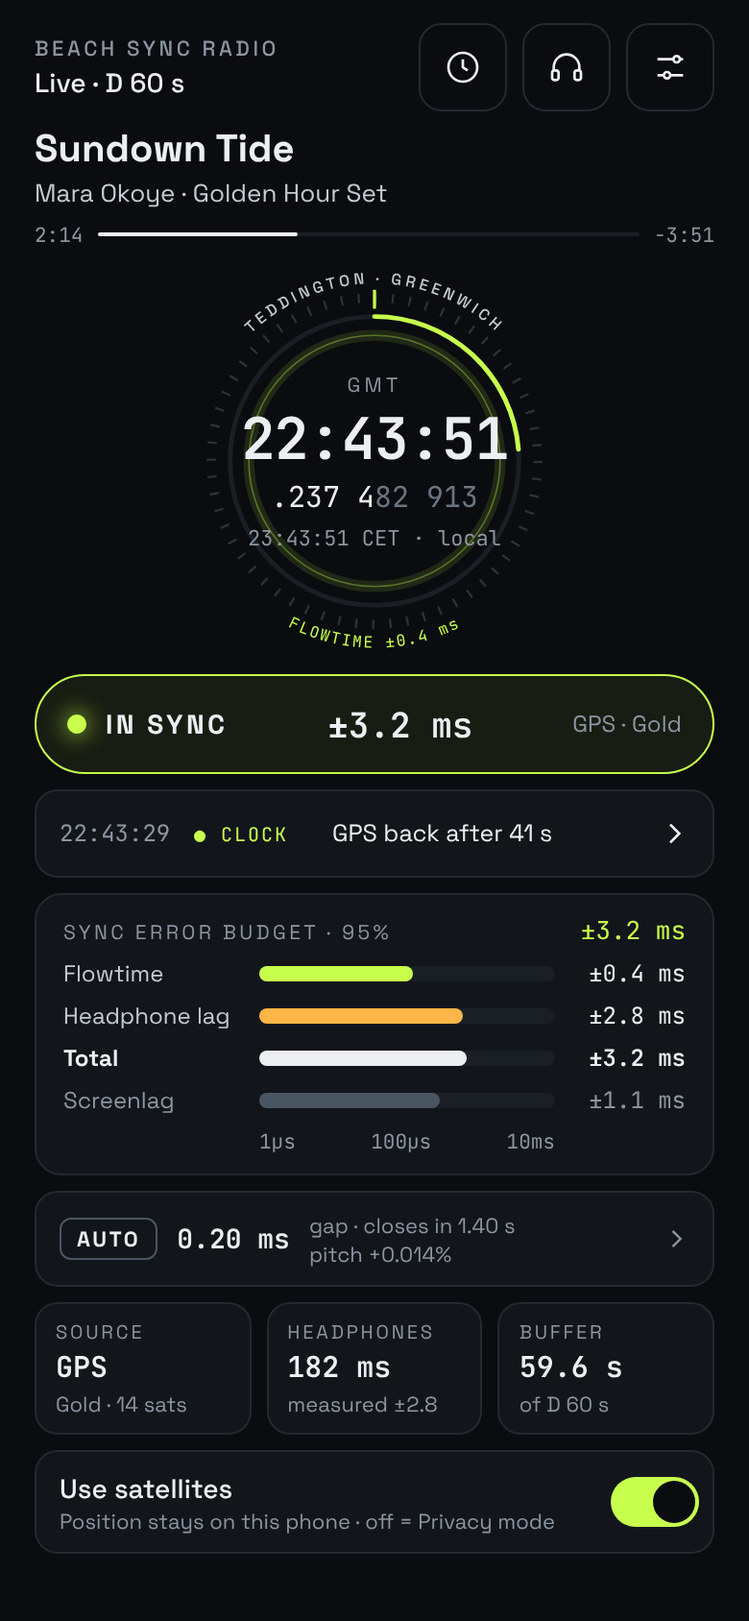
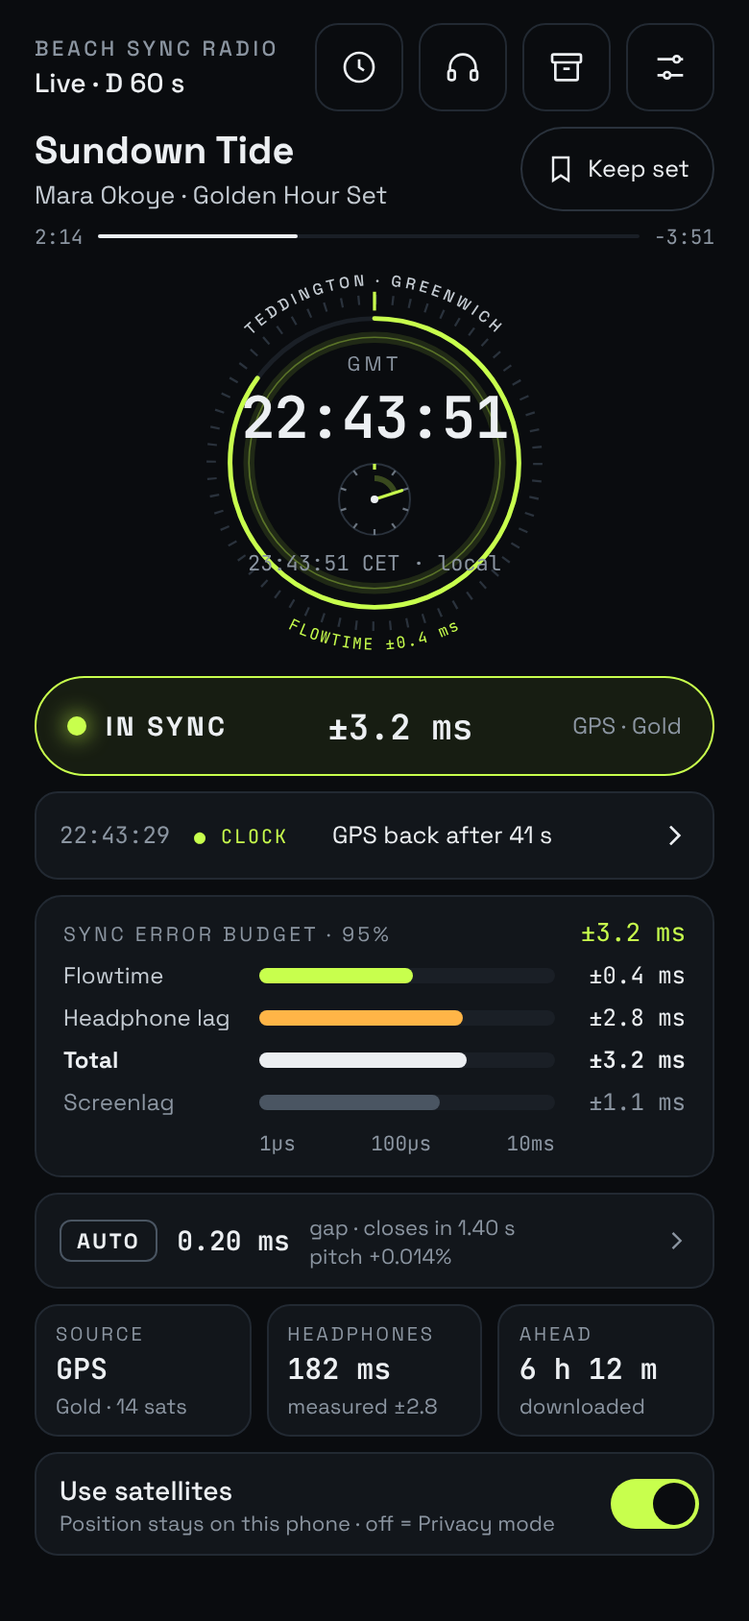
Add design hand-off 05 from Claude Desktop
The archive screen, Settings archive and delivery sections, and now
playing's sub-second dial, Keep button and downloaded-ahead tile.

diff --git a/design/screens/archive.html b/design/screens/archive.html
@@ -1,0 +1,116 @@
+<!doctype html>
+<html lang="en">
+<head>
+<meta charset="utf-8">
+<meta name="viewport" content="width=390">
+<title>Archive · Beach Sync</title>
+<!-- Exported from the Beach Sync UI Mock-ups canvas. Static: tokens are in ../tokens.json, behaviour in ../ui-spec.md -->
+<link rel="stylesheet" href="https://fonts.googleapis.com/css2?family=JetBrains+Mono:wght@400;600&amp;family=Space+Grotesk:wght@400;500;700&amp;display=swap">
+<style>
+body{margin:0;background:#0A0C0F}
+a{color:#C8FF4D}a:hover{color:#E2FF9E}
+</style>
+</head>
+<body>
+<div style="width: 390px; height: 844px; box-sizing: border-box; background: #0A0C0F; color: #ECEFF2; font-family: 'Space Grotesk', system-ui, sans-serif; padding: 14px 18px 0; display: flex; flex-direction: column; gap: 10px; overflow: hidden">
+
+  <div style="display: flex; justify-content: space-between; align-items: center">
+    <a href="now-playing.html" style="display: flex; align-items: center; gap: 6px; min-height: 44px; text-decoration: none; color: #ECEFF2; font-size: 18px; font-weight: 700">
+      <svg width="18" height="18" viewBox="0 0 24 24" fill="none" stroke="currentColor" stroke-width="2" aria-hidden="true"><path d="M15 5l-7 7 7 7"></path></svg>
+      Archive
+    </a>
+    <a href="settings.html" style="min-height: 44px; display: flex; align-items: center; font-size: 13px; color: #C4CBD2; text-decoration: none">Keeping everything ›</a>
+  </div>
+
+  <div style="background: #12161B; border: 1px solid #222932; border-radius: 14px; padding: 12px 14px; display: flex; flex-direction: column; gap: 8px">
+    <div style="display: flex; justify-content: space-between; align-items: baseline">
+      <span style="font-size: 10.5px; letter-spacing: 0.16em; color: #8B95A1">STORAGE</span>
+      <span style="font-size: 11px; color: #8B95A1">41 GB free on this phone</span>
+    </div>
+    <div style="display: flex; height: 8px; border-radius: 4px; overflow: hidden; background: #1A1F26"><span style="width: 46%; background: #C8FF4D"></span><span style="width: 18%; background: #ECEFF2"></span></div>
+    <div style="display: flex; justify-content: space-between; font-size: 11.5px; color: #C4CBD2">
+      <span><span style="color: #C8FF4D">■</span> Rolling <span style="font-family: 'JetBrains Mono', ui-monospace, monospace">3.1 of 5 GB</span></span>
+      <span><span style="color: #ECEFF2">■</span> Kept <span style="font-family: 'JetBrains Mono', ui-monospace, monospace">1.2 GB</span> extra</span>
+    </div>
+  </div>
+
+  <div role="group" aria-label="Show" style="display: flex; gap: 6px">
+    <button aria-pressed="true" style="appearance: none; min-height: 44px; padding: 0 14px; border-radius: 999px; border: 1.5px solid #ECEFF2; background: #ECEFF2; color: #0A0C0F; font-family: inherit; font-size: 13px; font-weight: 700">All</button>
+    <button aria-pressed="false" style="appearance: none; min-height: 44px; padding: 0 14px; border-radius: 999px; border: 1px solid #2A323C; background: transparent; color: #ECEFF2; font-family: inherit; font-size: 13px">Kept</button>
+    <button aria-pressed="false" style="appearance: none; min-height: 44px; padding: 0 14px; border-radius: 999px; border: 1px solid #2A323C; background: transparent; color: #ECEFF2; font-family: inherit; font-size: 13px">Finishing</button>
+  </div>
+
+  <span style="font-size: 10.5px; letter-spacing: 0.16em; color: #8B95A1; margin-top: 2px">TODAY</span>
+  <div style="display: flex; flex-direction: column">
+    <div style="display: grid; grid-template-columns: 44px minmax(0, 1fr) 44px; gap: 8px; align-items: center; padding: 6px 0; border-bottom: 1px solid #1A1F26;">
+      <button aria-label="Replay Salt Lines" style="appearance: none; width: 40px; height: 40px; margin: 2px; border-radius: 50%; border: 1px solid #2A323C; background: transparent; color: #ECEFF2; display: flex; align-items: center; justify-content: center; cursor: pointer"><svg width="14" height="14" viewBox="0 0 24 24" aria-hidden="true"><path d="M7 4l13 8-13 8z" fill="currentColor"></path></svg></button>
+      <div style="display: flex; flex-direction: column; gap: 1px; min-width: 0">
+        <span style="font-size: 14px; font-weight: 500; white-space: nowrap; overflow: hidden; text-overflow: ellipsis">Salt Lines</span>
+        <span style="font-size: 11.5px; color: #C4CBD2; white-space: nowrap; overflow: hidden; text-overflow: ellipsis">Ines Varga · single</span>
+        <span style="font-family: 'JetBrains Mono', ui-monospace, monospace; font-size: 10.5px; color: #8B95A1">3:48 · 4.6 MB · 20:36</span>
+        <span style="font-size: 11px; color: #5CE1FF">Finishing on Wi-Fi · 62%</span>
+      </div>
+      <button aria-pressed="false" aria-label="Keep Salt Lines" style="appearance: none; width: 44px; height: 44px; border: none; background: transparent; display: flex; align-items: center; justify-content: center; cursor: pointer"><svg width="18" height="18" viewBox="0 0 24 24" fill="none" stroke="#8B95A1" stroke-width="1.8" aria-hidden="true"><path d="M6 3h12v18l-6-4-6 4z"></path></svg></button>
+    </div>
+    <div style="display: grid; grid-template-columns: 44px minmax(0, 1fr) 44px; gap: 8px; align-items: center; padding: 6px 0; border-bottom: 1px solid #1A1F26;">
+      <button aria-label="Replay Golden Hour Set" style="appearance: none; width: 40px; height: 40px; margin: 2px; border-radius: 50%; border: 1px solid #2A323C; background: transparent; color: #ECEFF2; display: flex; align-items: center; justify-content: center; cursor: pointer"><svg width="14" height="14" viewBox="0 0 24 24" aria-hidden="true"><path d="M7 4l13 8-13 8z" fill="currentColor"></path></svg></button>
+      <div style="display: flex; flex-direction: column; gap: 1px; min-width: 0">
+        <span style="font-size: 14px; font-weight: 500; white-space: nowrap; overflow: hidden; text-overflow: ellipsis">Golden Hour Set</span>
+        <span style="font-size: 11.5px; color: #C4CBD2; white-space: nowrap; overflow: hidden; text-overflow: ellipsis">Mara Okoye · set, 14 tracks</span>
+        <span style="font-family: 'JetBrains Mono', ui-monospace, monospace; font-size: 10.5px; color: #8B95A1">1:58:20 · 142 MB · 20:40</span>
+        <span style="font-size: 11px; color: #C8FF4D">Playing now · track 9 of 14</span>
+      </div>
+      <button aria-pressed="false" aria-label="Keep Golden Hour Set" style="appearance: none; width: 44px; height: 44px; border: none; background: transparent; display: flex; align-items: center; justify-content: center; cursor: pointer"><svg width="18" height="18" viewBox="0 0 24 24" fill="none" stroke="#8B95A1" stroke-width="1.8" aria-hidden="true"><path d="M6 3h12v18l-6-4-6 4z"></path></svg></button>
+    </div>
+    <div style="display: grid; grid-template-columns: 44px minmax(0, 1fr) 44px; gap: 8px; align-items: center; padding: 6px 0; ">
+      <button aria-label="Replay Low Tide Radio Hour" style="appearance: none; width: 40px; height: 40px; margin: 2px; border-radius: 50%; border: 1px solid #2A323C; background: transparent; color: #ECEFF2; display: flex; align-items: center; justify-content: center; cursor: pointer"><svg width="14" height="14" viewBox="0 0 24 24" aria-hidden="true"><path d="M7 4l13 8-13 8z" fill="currentColor"></path></svg></button>
+      <div style="display: flex; flex-direction: column; gap: 1px; min-width: 0">
+        <span style="font-size: 14px; font-weight: 500; white-space: nowrap; overflow: hidden; text-overflow: ellipsis">Low Tide Radio Hour</span>
+        <span style="font-size: 11.5px; color: #C4CBD2; white-space: nowrap; overflow: hidden; text-overflow: ellipsis">Beach Sync Radio · show</span>
+        <span style="font-family: 'JetBrains Mono', ui-monospace, monospace; font-size: 10.5px; color: #8B95A1">59:40 · 72 MB · 18:00</span>
+        
+      </div>
+      <button aria-pressed="false" aria-label="Keep Low Tide Radio Hour" style="appearance: none; width: 44px; height: 44px; border: none; background: transparent; display: flex; align-items: center; justify-content: center; cursor: pointer"><svg width="18" height="18" viewBox="0 0 24 24" fill="none" stroke="#8B95A1" stroke-width="1.8" aria-hidden="true"><path d="M6 3h12v18l-6-4-6 4z"></path></svg></button>
+    </div>
+  </div>
+
+  <span style="font-size: 10.5px; letter-spacing: 0.16em; color: #8B95A1; margin-top: 2px">29 OCT</span>
+  <div style="display: flex; flex-direction: column">
+    <div style="display: grid; grid-template-columns: 44px minmax(0, 1fr) 44px; gap: 8px; align-items: center; padding: 6px 0; border-bottom: 1px solid #1A1F26;">
+      <button aria-label="Replay Night Swim" style="appearance: none; width: 40px; height: 40px; margin: 2px; border-radius: 50%; border: 1px solid #2A323C; background: transparent; color: #ECEFF2; display: flex; align-items: center; justify-content: center; cursor: pointer"><svg width="14" height="14" viewBox="0 0 24 24" aria-hidden="true"><path d="M7 4l13 8-13 8z" fill="currentColor"></path></svg></button>
+      <div style="display: flex; flex-direction: column; gap: 1px; min-width: 0">
+        <span style="font-size: 14px; font-weight: 500; white-space: nowrap; overflow: hidden; text-overflow: ellipsis">Night Swim</span>
+        <span style="font-size: 11.5px; color: #C4CBD2; white-space: nowrap; overflow: hidden; text-overflow: ellipsis">Joel Arrow · Breakers Set</span>
+        <span style="font-family: 'JetBrains Mono', ui-monospace, monospace; font-size: 10.5px; color: #8B95A1">4:12 · 5.0 MB · 23:58</span>
+        
+      </div>
+      <button aria-pressed="true" aria-label="Kept Night Swim" style="appearance: none; width: 44px; height: 44px; border: none; background: transparent; display: flex; align-items: center; justify-content: center; cursor: pointer"><svg width="18" height="18" viewBox="0 0 24 24" fill="#C8FF4D" stroke="#C8FF4D" stroke-width="1.8" aria-hidden="true"><path d="M6 3h12v18l-6-4-6 4z"></path></svg></button>
+    </div>
+    <div style="display: grid; grid-template-columns: 44px minmax(0, 1fr) 44px; gap: 8px; align-items: center; padding: 6px 0; ">
+      <button aria-label="Replay Breakers Set" style="appearance: none; width: 40px; height: 40px; margin: 2px; border-radius: 50%; border: 1px solid #2A323C; background: transparent; color: #ECEFF2; display: flex; align-items: center; justify-content: center; cursor: pointer"><svg width="14" height="14" viewBox="0 0 24 24" aria-hidden="true"><path d="M7 4l13 8-13 8z" fill="currentColor"></path></svg></button>
+      <div style="display: flex; flex-direction: column; gap: 1px; min-width: 0">
+        <span style="font-size: 14px; font-weight: 500; white-space: nowrap; overflow: hidden; text-overflow: ellipsis">Breakers Set</span>
+        <span style="font-size: 11.5px; color: #C4CBD2; white-space: nowrap; overflow: hidden; text-overflow: ellipsis">Joel Arrow · set, 11 tracks</span>
+        <span style="font-family: 'JetBrains Mono', ui-monospace, monospace; font-size: 10.5px; color: #8B95A1">1:31:05 · 109 MB · 22:30</span>
+        <span style="font-size: 11px; color: #8B95A1">Oldest unkept · goes next</span>
+      </div>
+      <button aria-pressed="false" aria-label="Keep Breakers Set" style="appearance: none; width: 44px; height: 44px; border: none; background: transparent; display: flex; align-items: center; justify-content: center; cursor: pointer"><svg width="18" height="18" viewBox="0 0 24 24" fill="none" stroke="#8B95A1" stroke-width="1.8" aria-hidden="true"><path d="M6 3h12v18l-6-4-6 4z"></path></svg></button>
+    </div>
+  </div>
+
+  <div style="margin: auto -18px 0; background: #12161B; border-top: 1px solid #222932; padding: 10px 18px 14px; display: flex; flex-direction: column; gap: 8px">
+    <div style="display: flex; align-items: center; gap: 10px">
+      <span style="font-size: 10px; font-weight: 700; letter-spacing: 0.14em; color: #C4CBD2; border: 1px solid #4A5562; border-radius: 6px; padding: 2px 6px">REPLAY · NOT SYNCED</span>
+      <span style="font-size: 13px; font-weight: 500; white-space: nowrap; overflow: hidden; text-overflow: ellipsis">Night Swim</span>
+      <button aria-label="Pause replay" style="appearance: none; margin-left: auto; width: 44px; height: 44px; border-radius: 50%; border: none; background: #ECEFF2; color: #0A0C0F; display: flex; align-items: center; justify-content: center; gap: 3px; flex: none"><span style="width: 4px; height: 14px; background: #0A0C0F; border-radius: 1px"></span><span style="width: 4px; height: 14px; background: #0A0C0F; border-radius: 1px"></span></button>
+    </div>
+    <div style="display: grid; grid-template-columns: auto minmax(0, 1fr) auto; gap: 8px; align-items: center; font-family: 'JetBrains Mono', ui-monospace, monospace; font-size: 10.5px; color: #8B95A1">
+      <span>1:37</span>
+      <input type="range" min="0" max="252" value="97" aria-label="Replay position" style="width: 100%; height: 24px; margin: 0; accent-color: #ECEFF2">
+      <span>−2:35</span>
+    </div>
+  </div>
+
+</div>
+</body>
+</html>

diff --git a/design/screens/now-playing.html b/design/screens/now-playing.html
@@ -26,6 +26,9 @@ a{color:#C8FF4D}a:hover{color:#E2FF9E}
       <a href="headphone-lag.html" aria-label="Headphone lag" style="width: 44px; height: 44px; border-radius: 12px; border: 1px solid #222932; display: flex; align-items: center; justify-content: center; color: #ECEFF2">
         <svg width="20" height="20" viewBox="0 0 24 24" fill="none" stroke="currentColor" stroke-width="1.6" aria-hidden="true"><path d="M4 14v-2a8 8 0 0 1 16 0v2"></path><rect x="3" y="14" width="4" height="6" rx="1.5"></rect><rect x="17" y="14" width="4" height="6" rx="1.5"></rect></svg>
       </a>
+      <a href="archive.html" aria-label="Archive" style="width: 44px; height: 44px; border-radius: 12px; border: 1px solid #222932; display: flex; align-items: center; justify-content: center; color: #ECEFF2">
+        <svg width="20" height="20" viewBox="0 0 24 24" fill="none" stroke="currentColor" stroke-width="1.6" aria-hidden="true"><rect x="3" y="4" width="18" height="5" rx="1"></rect><path d="M5 9v10a1 1 0 0 0 1 1h12a1 1 0 0 0 1-1V9M10 13h4"></path></svg>
+      </a>
       <a href="settings.html" aria-label="Settings" style="width: 44px; height: 44px; border-radius: 12px; border: 1px solid #222932; display: flex; align-items: center; justify-content: center; color: #ECEFF2">
         <svg width="20" height="20" viewBox="0 0 24 24" fill="none" stroke="currentColor" stroke-width="1.6" aria-hidden="true"><path d="M4 7h10M18 7h2M4 17h4M12 17h8"></path><circle cx="16" cy="7" r="2"></circle><circle cx="10" cy="17" r="2"></circle></svg>
       </a>
@@ -33,8 +36,15 @@ a{color:#C8FF4D}a:hover{color:#E2FF9E}
   </div>
 
   <div style="display: flex; flex-direction: column; gap: 3px">
-    <span style="font-size: 20px; font-weight: 700; line-height: 1.15; white-space: nowrap; overflow: hidden; text-overflow: ellipsis">Sundown Tide</span>
-    <span style="font-size: 13px; color: #C4CBD2; white-space: nowrap; overflow: hidden; text-overflow: ellipsis">Mara Okoye · Golden Hour Set</span>
+    <div style="display: grid; grid-template-columns: minmax(0, 1fr) auto; gap: 8px; align-items: center">
+      <div style="display: flex; flex-direction: column; gap: 3px; min-width: 0">
+        <span style="font-size: 20px; font-weight: 700; line-height: 1.15; white-space: nowrap; overflow: hidden; text-overflow: ellipsis">Sundown Tide</span>
+        <span style="font-size: 13px; color: #C4CBD2; white-space: nowrap; overflow: hidden; text-overflow: ellipsis">Mara Okoye · Golden Hour Set</span>
+      </div>
+      <button aria-pressed="false" aria-label="Keep this set in your archive" style="appearance: none; min-width: 44px; height: 44px; padding: 0 12px; border-radius: 999px; border: 1px solid #2A323C; background: transparent; color: #ECEFF2; font-family: inherit; font-size: 12.5px; display: flex; align-items: center; gap: 6px; cursor: pointer">
+        <svg width="16" height="16" viewBox="0 0 24 24" fill="none" stroke="currentColor" stroke-width="1.8" aria-hidden="true"><path d="M6 3h12v18l-6-4-6 4z"></path></svg>Keep set
+      </button>
+    </div>
     <div style="display: grid; grid-template-columns: auto minmax(0, 1fr) auto; gap: 8px; align-items: center; margin-top: 3px; font-family: 'JetBrains Mono', ui-monospace, monospace; font-size: 10.5px; color: #8B95A1">
       <span>2:14</span>
       <span style="height: 2px; border-radius: 1px; background: #1A1F26; position: relative"><span style="position: absolute; left: 0; top: 0; bottom: 0; width: 37%; border-radius: 1px; background: #ECEFF2"></span></span>
@@ -43,7 +53,7 @@ a{color:#C8FF4D}a:hover{color:#E2FF9E}
   </div>
 
   <div style="position: relative; width: 206px; height: 206px; flex: none; align-self: center">
-    <svg width="206" height="206" viewBox="0 0 252 252" role="img" aria-label="Brocast clock: Teddington and Greenwich time on the bezel, a second sweep and a precision ring of plus or minus 0.4 milliseconds" style="position: absolute; left: 0; top: 0">
+    <svg width="206" height="206" viewBox="0 0 252 252" role="img" aria-label="Brocast clock: Teddington and Greenwich time on the bezel, a seconds sweep, a sub-second dial, and a precision ring of plus or minus 0.4 milliseconds" style="position: absolute; left: 0; top: 0">
       <defs>
         <path id="bezel-top" d="M 13 126 A 113 113 0 0 1 239 126"></path>
         <path id="bezel-bottom" d="M 7 126 A 119 119 0 0 0 245 126"></path>
@@ -51,7 +61,7 @@ a{color:#C8FF4D}a:hover{color:#E2FF9E}
       <circle cx="126" cy="126" r="104" fill="none" stroke="#2A323C" stroke-width="6" stroke-dasharray="1.4 9.49"></circle>
       <line x1="126" y1="17" x2="126" y2="29" stroke="#C8FF4D" stroke-width="2"></line>
       <circle cx="126" cy="126" r="92" fill="none" stroke="#1A1F26" stroke-width="3"></circle>
-      <circle cx="126" cy="126" r="92" fill="none" stroke="#C8FF4D" stroke-width="3" stroke-linecap="round" stroke-dasharray="137 578" transform="rotate(-90 126 126)"></circle>
+      <circle cx="126" cy="126" r="92" fill="none" stroke="#C8FF4D" stroke-width="3" stroke-linecap="round" stroke-dasharray="491 578" transform="rotate(-90 126 126)"></circle>
       <circle cx="126" cy="126" r="80" fill="none" stroke="#C8FF4D" stroke-opacity="0.35" stroke-width="1"></circle>
       <circle cx="126" cy="126" r="80" fill="none" stroke="#C8FF4D" stroke-opacity="0.12" stroke-width="7"></circle>
       <text font-family="Space Grotesk, system-ui, sans-serif" font-size="10" font-weight="500" letter-spacing="2.4" fill="#C4CBD2"><textPath href="#bezel-top" startOffset="50%" text-anchor="middle">TEDDINGTON · GREENWICH</textPath></text>
@@ -60,7 +70,13 @@ a{color:#C8FF4D}a:hover{color:#E2FF9E}
     <div style="position: absolute; inset: 0; display: flex; flex-direction: column; align-items: center; justify-content: center; gap: 1px">
       <span style="font-size: 10.5px; letter-spacing: 0.2em; color: #8B95A1">GMT</span>
       <span style="font-family: 'JetBrains Mono', ui-monospace, monospace; font-size: 30px; font-weight: 600; letter-spacing: -0.02em">22:43:51</span>
-      <span style="font-family: 'JetBrains Mono', ui-monospace, monospace; font-size: 15px"><span style="color: #ECEFF2">.237 4</span><span style="color: #6B7580">82 913</span></span>
+      <svg width="40" height="40" viewBox="0 0 40 40" role="img" aria-label="Sub-second dial: two tenths" style="margin: 2px 0">
+        <circle cx="20" cy="20" r="18.5" fill="#0A0C0F" stroke="#2A323C" stroke-width="1"></circle>
+        <line x1="20.00" y1="4.50" x2="20.00" y2="1.50" stroke="#C8FF4D" stroke-width="1.6"></line><line x1="29.11" y1="7.46" x2="30.87" y2="5.03" stroke="#6B7580" stroke-width="1.1"></line><line x1="34.74" y1="15.21" x2="37.59" y2="14.28" stroke="#6B7580" stroke-width="1.1"></line><line x1="34.74" y1="24.79" x2="37.59" y2="25.72" stroke="#6B7580" stroke-width="1.1"></line><line x1="29.11" y1="32.54" x2="30.87" y2="34.97" stroke="#6B7580" stroke-width="1.1"></line><line x1="20.00" y1="35.50" x2="20.00" y2="38.50" stroke="#6B7580" stroke-width="1.1"></line><line x1="10.89" y1="32.54" x2="9.13" y2="34.97" stroke="#6B7580" stroke-width="1.1"></line><line x1="5.26" y1="24.79" x2="2.41" y2="25.72" stroke="#6B7580" stroke-width="1.1"></line><line x1="5.26" y1="15.21" x2="2.41" y2="14.28" stroke="#6B7580" stroke-width="1.1"></line><line x1="10.89" y1="7.46" x2="9.13" y2="5.03" stroke="#6B7580" stroke-width="1.1"></line>
+        <circle cx="20" cy="20" r="11" fill="none" stroke="#C8FF4D" stroke-opacity="0.25" stroke-width="3" stroke-dasharray="13.8 69.1" transform="rotate(-90 20 20)"></circle>
+        <line x1="20" y1="20" x2="34.27" y2="15.36" stroke="#C8FF4D" stroke-width="1.6" stroke-linecap="round"></line>
+        <circle cx="20" cy="20" r="2" fill="#ECEFF2"></circle>
+      </svg>
       <span style="font-family: 'JetBrains Mono', ui-monospace, monospace; font-size: 11px; color: #8B95A1; margin-top: 3px">23:43:51 CET · local</span>
     </div>
   </div>
@@ -124,9 +140,9 @@ a{color:#C8FF4D}a:hover{color:#E2FF9E}
       <span style="font-size: 11px; color: #8B95A1">measured ±2.8</span>
     </a>
     <div style="background: #12161B; border: 1px solid #222932; border-radius: 12px; padding: 8px 10px; display: flex; flex-direction: column; gap: 2px">
-      <span style="font-size: 10px; letter-spacing: 0.14em; color: #8B95A1">BUFFER</span>
-      <span style="font-family: 'JetBrains Mono', ui-monospace, monospace; font-size: 15px; font-weight: 600">59.6 s</span>
-      <span style="font-size: 11px; color: #8B95A1">of D 60 s</span>
+      <span style="font-size: 10px; letter-spacing: 0.14em; color: #8B95A1">AHEAD</span>
+      <span style="font-family: 'JetBrains Mono', ui-monospace, monospace; font-size: 15px; font-weight: 600">6 h 12 m</span>
+      <span style="font-size: 11px; color: #8B95A1">downloaded</span>
     </div>
   </div>
 

diff --git a/design/screens/settings.html b/design/screens/settings.html
@@ -12,7 +12,7 @@ a{color:#C8FF4D}a:hover{color:#E2FF9E}
 </style>
 </head>
 <body>
-<div style="width: 390px; height: 844px; box-sizing: border-box; background: #0A0C0F; color: #ECEFF2; font-family: 'Space Grotesk', system-ui, sans-serif; padding: 14px 18px 18px; display: flex; flex-direction: column; gap: 10px; overflow: hidden">
+<div style="width: 390px; height: 1280px; box-sizing: border-box; background: #0A0C0F; color: #ECEFF2; font-family: 'Space Grotesk', system-ui, sans-serif; padding: 14px 18px 18px; display: flex; flex-direction: column; gap: 10px; overflow: hidden">
 
   <a href="now-playing.html" style="display: flex; align-items: center; gap: 6px; min-height: 44px; text-decoration: none; color: #ECEFF2; font-size: 18px; font-weight: 700">
     <svg width="18" height="18" viewBox="0 0 24 24" fill="none" stroke="currentColor" stroke-width="2" aria-hidden="true"><path d="M15 5l-7 7 7 7"></path></svg>
@@ -59,6 +59,57 @@ a{color:#C8FF4D}a:hover{color:#E2FF9E}
     <div style="display: flex; align-items: center; justify-content: space-between; gap: 12px; min-height: 60px; padding-right: 10px">
       <span style="display: flex; flex-direction: column; gap: 2px"><span style="font-size: 14px; font-weight: 500">Screen level</span><span style="font-size: 11px; color: #8B95A1">Automatic: heat, frames, underruns, battery</span></span>
       <span style="font-family: 'JetBrains Mono', ui-monospace, monospace; font-size: 13px; color: #C8FF4D">FULL</span>
+    </div>
+  </div>
+
+  <span style="font-size: 10.5px; letter-spacing: 0.16em; color: #8B95A1; margin-top: 4px">ARCHIVE</span>
+  <div style="background: #12161B; border: 1px solid #222932; border-radius: 14px; padding: 12px 14px; display: flex; flex-direction: column; gap: 10px">
+    <div style="display: flex; flex-direction: column; gap: 6px">
+      <span style="font-size: 14px; font-weight: 500">Keep</span>
+      <div role="group" aria-label="What the archive keeps" style="display: grid; grid-template-columns: repeat(3, minmax(0, 1fr)); border: 1px solid #2A323C; border-radius: 10px; overflow: hidden">
+        <button aria-pressed="false" style="appearance: none; min-height: 44px; border: none; background: transparent; color: #ECEFF2; font-family: inherit; font-size: 12.5px">Off</button>
+        <button aria-pressed="false" style="appearance: none; min-height: 44px; border: none; border-left: 1px solid #2A323C; background: transparent; color: #ECEFF2; font-family: inherit; font-size: 12.5px">Kept only</button>
+        <button aria-pressed="true" style="appearance: none; min-height: 44px; border: none; border-left: 1px solid #2A323C; background: #ECEFF2; color: #0A0C0F; font-family: inherit; font-size: 12.5px; font-weight: 700">Everything</button>
+      </div>
+    </div>
+    <div style="display: flex; flex-direction: column; gap: 6px">
+      <div style="display: flex; justify-content: space-between; align-items: baseline">
+        <label for="archive-limit" style="font-size: 14px; font-weight: 500">Size limit</label>
+        <span style="font-family: 'JetBrains Mono', ui-monospace, monospace; font-size: 14px; font-weight: 600; color: #C8FF4D">5 GB</span>
+      </div>
+      <input id="archive-limit" type="range" min="0" max="5" value="2" aria-valuetext="5 gigabytes" style="width: 100%; height: 32px; margin: 0; accent-color: #C8FF4D">
+      <div style="display: flex; justify-content: space-between; font-family: 'JetBrains Mono', ui-monospace, monospace; font-size: 10.5px; color: #8B95A1"><span>1</span><span>2</span><span>5</span><span>10</span><span>20</span><span>50 GB</span></div>
+    </div>
+    <div style="display: flex; flex-direction: column; gap: 6px">
+      <div style="display: flex; height: 8px; border-radius: 4px; overflow: hidden; background: #1A1F26"><span style="width: 46%; background: #C8FF4D"></span><span style="width: 18%; background: #ECEFF2"></span></div>
+      <div style="display: flex; justify-content: space-between; font-size: 11.5px; color: #C4CBD2">
+        <span><span style="color: #C8FF4D">■</span> Rolling <span style="font-family: 'JetBrains Mono', ui-monospace, monospace">3.1 of 5 GB</span></span>
+        <span><span style="color: #ECEFF2">■</span> Kept <span style="font-family: 'JetBrains Mono', ui-monospace, monospace">1.2 GB</span> extra</span>
+      </div>
+    </div>
+    <span style="font-size: 11px; color: #8B95A1">When the rolling archive is full, the oldest tracks you haven't kept go first. Kept tracks are never removed and sit outside the limit.</span>
+    <a href="archive.html" style="text-decoration: none; color: #ECEFF2; display: flex; align-items: center; justify-content: space-between; min-height: 44px; border-top: 1px solid #1A1F26; font-size: 14px; font-weight: 500">Open archive <svg width="16" height="16" viewBox="0 0 24 24" fill="none" stroke="currentColor" stroke-width="2" aria-hidden="true"><path d="M9 5l7 7-7 7"></path></svg></a>
+  </div>
+
+  <span style="font-size: 10.5px; letter-spacing: 0.16em; color: #8B95A1; margin-top: 4px">DELIVERY</span>
+  <div style="background: #12161B; border: 1px solid #222932; border-radius: 14px; padding: 0 4px 0 14px; display: flex; flex-direction: column">
+    <div style="display: flex; align-items: center; justify-content: space-between; gap: 12px; min-height: 60px; border-bottom: 1px solid #1A1F26">
+      <div style="display: flex; flex-direction: column; gap: 2px">
+        <span style="font-size: 14px; font-weight: 500">Download ahead on mobile data</span>
+        <span style="font-size: 11px; color: #8B95A1">About 72 MB an hour of listening</span>
+      </div>
+      <button aria-pressed="true" aria-label="Download ahead on mobile data, on" style="appearance: none; width: 52px; height: 44px; flex: none; background: transparent; border: none; padding: 0; display: flex; align-items: center; justify-content: center; cursor: pointer"><span style="width: 46px; height: 26px; border-radius: 13px; background: #C8FF4D; display: flex; align-items: center; justify-content: flex-end; padding: 2px; box-sizing: border-box"><span style="width: 22px; height: 22px; border-radius: 50%; background: #0A0C0F"></span></span></button>
+    </div>
+    <div style="display: flex; align-items: center; justify-content: space-between; gap: 12px; min-height: 60px; border-bottom: 1px solid #1A1F26">
+      <div style="display: flex; flex-direction: column; gap: 2px">
+        <span style="font-size: 14px; font-weight: 500">Share with nearby phones</span>
+        <span style="font-size: 11px; color: #8B95A1">Only on Wi-Fi, while charging and not playing</span>
+      </div>
+      <button aria-pressed="true" aria-label="Share with nearby phones, on" style="appearance: none; width: 52px; height: 44px; flex: none; background: transparent; border: none; padding: 0; display: flex; align-items: center; justify-content: center; cursor: pointer"><span style="width: 46px; height: 26px; border-radius: 13px; background: #C8FF4D; display: flex; align-items: center; justify-content: flex-end; padding: 2px; box-sizing: border-box"><span style="width: 22px; height: 22px; border-radius: 50%; background: #0A0C0F"></span></span></button>
+    </div>
+    <div style="display: flex; align-items: center; justify-content: space-between; gap: 12px; min-height: 60px; padding-right: 10px">
+      <span style="display: flex; flex-direction: column; gap: 2px"><span style="font-size: 14px; font-weight: 500">Sharing allowance</span><span style="font-size: 11px; color: #8B95A1">Separate from the archive</span></span>
+      <span style="font-family: 'JetBrains Mono', ui-monospace, monospace; font-size: 14px; font-weight: 600">2 GB</span>
     </div>
   </div>
 

diff --git a/design/ui-spec.md b/design/ui-spec.md
@@ -1,4 +1,4 @@
-# UI spec (hand-off 04)
+# UI spec (hand-off 05)
 
 Field names come from Claude Code's "Fields that exist today" table in `feedback.md`, as of 1 Nov 2026. If one has been renamed since, use the new name.
 
@@ -26,16 +26,17 @@ Field names come from Claude Code's "Fields that exist today" table in `feedback
 
 | Element | Shows | Source | States and taps | Status |
 |---|---|---|---|---|
-| Header | Station or event name (eyebrow), `Live · D 60 s` | `StreamClient.manifest.dMs`; the name is **later** | Icon buttons (44 × 44) for Time signals, Headphone lag and Settings | now |
-| Now playing | Track title (20 px, bold, one line), `artist · set` (13 px, `textSecondary`), and a thin progress line with elapsed and remaining time | Stream track metadata (**later**; the prototype can show the manifest `source`) | Follows the Track names rule. Long names end with an ellipsis. | later |
-| Brocast clock | A dial. Along the top of the bezel, curved: `TEDDINGTON · GREENWICH`, with an accent meridian tick at 12 o'clock between the two names. Inside: the zone (GMT or BST), HH:MM:SS large, the fraction to the ns (digits finer than the error in `faded`), then local time beneath (`23:43:51 CET · local`). Along the bottom of the bezel, curved: `FLOWTIME ±error` in accent. | `FlowTime.fit().utcAt(boot)` at the frame's presentation time; `ZoneId.of("Europe/London")`; `ZoneId.systemDefault()` for the local line | Local line hidden when its offset equals UK time's. Screenlag correction is **later**. Draw the curved text with `drawTextOnPath`, or the Compose equivalent. | now |
-| Second sweep | An arc that fills once per flowtime second | The fraction of the current second | Off at Reduced level and with reduced motion | now |
+| Header | Station or event name (eyebrow), `Live · D 60 s` | `StreamClient.manifest.dMs`; the name is **later** | Icon buttons (44 × 44) for Time signals, Headphone lag, Archive and Settings | now |
+| Now playing | Track title (20 px, bold, one line), `artist · set` (13 px, `textSecondary`), a **Keep** button, and a thin progress line with elapsed and remaining time | The signed file record and cue list (**later**; the prototype can show the manifest `source`) | Follows the Track names rule; long names end with an ellipsis. Keep pins the file being heard: `Keep` for a single track, `Keep set` inside a set, `Kept` (filled accent mark) once pinned. Hidden while the archive is Off. | later |
+| Brocast clock | A dial. Along the top of the bezel, curved: `TEDDINGTON · GREENWICH`, with an accent meridian tick at 12 o'clock between the two names. Inside: the zone (GMT or BST), HH:MM:SS large, a **sub-second dial** (40 px: 10 tenth ticks with the 0 tick in accent, a faint accent arc and an accent hand), then local time beneath (`23:43:51 CET · local`). Along the bottom of the bezel, curved: `FLOWTIME ±error` in accent. Tapping the dial swaps the sub-dial for the digits to the ns (finer than the error in `faded`), for side-by-side photos; tapping again swaps back. | `FlowTime.fit().utcAt(boot)` at the frame's presentation time; `ZoneId.of("Europe/London")`; `ZoneId.systemDefault()` for the local line | Local line hidden when its offset equals UK time's. Screenlag correction is **later**. Draw the curved text with `drawTextOnPath`, or the Compose equivalent. | now |
+| Seconds sweep | The outer accent arc fills once per flowtime **minute**, like a second hand | Seconds of the current minute | Steps once a second at Reduced level | now |
+| Sub-second dial | The hand **steps in tenths** at 10 Hz, landing on the ticks, and the arc fills by tenths. A smooth sweep at frame rate comes only if a release build shows the UI thread can afford it (Claude Code, 2 Nov: 18–25% of a core at 10 Hz in a debug build). | The fraction of the current second | Hidden at Reduced and Minimal levels and with reduced motion | now |
 | Precision ring | A glow whose width shows the sync error on the budget's log scale; its figure is on the bottom bezel | Sync error | | now |
 | Sync badge | Words, the ± figure and the source | See Badge states | Tapping opens the error budget detail | now |
 | Latest event | Time, lane mark and name, and one line of text, **directly under the badge** | `EventLog.latest()` | Tapping opens the Event log. A banner elsewhere links to its own event. | now |
 | Sync error budget | Bars on a log scale from 1 µs to 10 ms: flowtime, headphone lag, total, screenlag | `errAt` now; headphone-lag uncertainty and screenlag **later** | | partly |
 | Gap row | The rate nudge row: mode chip, the gap value, then two small lines (`gap · closes in 1.40 s` and `pitch +0.014%`) | `NudgeControl.gapAt`, `mode`, `secondsLeft`, `state.rate` | Opens Nudge control. The 60 s gap trace has left this screen to make room for the track; history belongs on Nudge control, **later**. | now |
-| Tiles | SOURCE, HEADPHONES, BUFFER (seconds in hand out of D) | `FlowTime.chosen`, `GpsTime`, `Settings.lagMs`, `StreamClient.buffered` | SOURCE opens Time signals; HEADPHONES opens Headphone lag | now |
+| Tiles | SOURCE, HEADPHONES, AHEAD (how much is downloaded ahead, in hours and minutes) | `FlowTime.chosen`, `GpsTime`, `Settings.lagMs`, download state (**later**) | SOURCE opens Time signals; HEADPHONES opens Headphone lag | partly |
 | Use satellites | A full-width row with a switch, never locked, one tap from the main screen. Shows `Position stays on this phone · off = Privacy mode`. | `GpsTime.active` | Off: the badge becomes Privacy mode. On: asks for location permission if needed; if refused, it returns to off. | now |
 
 ## Settings
@@ -49,7 +50,37 @@ Field names come from Claude Code's "Fields that exist today" table in `feedback
 | LISTENING · Local time under the clock | A switch, on by default | A new setting | Off hides the local line on every clock | now |
 | SCREEN · No flashing | A switch, off by default | Not built (light show) | Always respected; screen levels never override it | later |
 | SCREEN · Screen level | The current automatic level | Not built | Read-only | later |
+| ARCHIVE · Keep | Segmented: Off, Kept only, Everything. Off by default (opt-in). | A new setting | See Archive rules | later |
+| ARCHIVE · Size limit | Stepped slider: 1, 2, 5, 10, 20, 50 GB; 5 GB by default | A new setting | Disabled in Kept only and Off | later |
+| ARCHIVE · Storage bar | Rolling (accent) out of the limit, then Kept (`text`) as extra | Archive store | | later |
+| ARCHIVE · Open archive | A link | | Opens Archive | later |
+| DELIVERY · Download ahead on mobile data | A switch, on by default, with `About 72 MB an hour of listening` | A new setting | Off: downloads only on Wi-Fi | later |
+| DELIVERY · Share with nearby phones | A switch, with `Only on Wi-Fi, while charging and not playing` | A new setting | Default is a product decision (see the hand-off) | later |
+| DELIVERY · Sharing allowance | A storage figure, separate from the archive | A new setting | | later |
 | ADVANCED · Strict mode | A switch tagged `EVENTS ONLY`, off by default, plus a `My limit` slider (1–50 ms, default 5), dimmed while off | Not built (needs events) | Applies only inside an event, and can only tighten the event's own limit. On the radio it does nothing, and the caption says so. | later |
+
+## Archive
+
+![](screens/archive.png)
+
+**Archive rules (the user's decision, 2 Nov):**
+
+- **Keep modes:** Off (the default), Kept only, or Everything.
+  - **Everything:** every file heard goes into a rolling archive capped by the size limit. When it's full, the oldest file that isn't kept is removed first (FIFO).
+  - **Keep overrides the limit:** a kept file is never removed and doesn't count toward the limit. It's shown as `extra`.
+  - **Kept only:** only files the listener keeps are stored, and the limit is disabled.
+- **Files, not cues:** what's kept is the published file, a single track or a whole set. Inside a set, Keep keeps the set.
+- **Joined part-way:** the rest of the file downloads on Wi-Fi, shown as `Finishing on Wi-Fi · n%`.
+- **Low phone storage:** when the phone's free space runs low, the rolling archive stops adding files and says so. Kept files are never touched.
+
+| Element | Shows | Source | States and taps | Status |
+|---|---|---|---|---|
+| Header link | The current mode, for example `Keeping everything ›` | Archive setting | Opens Settings › Archive | later |
+| Storage card | The two-part bar; phone free space | Archive store | | later |
+| Filter | All, Kept, Finishing | | One at a time | later |
+| Day groups | TODAY, then dates | File play times | Newest first | later |
+| Rows | Replay button, title, `artist · single`, `set, n tracks` or `show`, then `length · size · time heard` in mono; the keep mark on the right | Signed file record | Status line: `Playing now · track 9 of 14` (accent), `Finishing on Wi-Fi · 62%` (#5CE1FF), or `Oldest unkept · goes next` (muted) | later |
+| Replay bar | `REPLAY · NOT SYNCED` chip, title, play and pause, a scrubber with elapsed and remaining time | Offline playback | Replay can pause and seek, because it's off the timeline. Starting a replay stops live playback, and a later `Back to live` rejoins at the live point. Replay never touches flowtime. | later |
 
 ## Badge states
 

diff --git a/design/handoff-05.md b/design/handoff-05.md
@@ -1,0 +1,20 @@
+# Hand-off 05 (2 Nov 2026): the sub-second dial, Archive and Keep
+
+The user made two decisions:
+
+1. The fraction digits on the clock become an analogue sub-second dial.
+2. The archive is configurable: Off, Kept only, or Everything. Everything is a rolling archive capped by a size limit, with the oldest unkept file removed first, and Keep overrides the limit.
+
+## What changed
+
+| Item | Change | Needs code? |
+|---|---|---|
+| `screens/now-playing` | A sub-second dial in place of the fraction digits. The hand steps in tenths at 10 Hz, as you asked. The outer accent arc now sweeps once a **minute**. Tapping the dial swaps in the ns digits for photos. Also new: a `Keep set` button beside the track, an Archive button in the header, and an AHEAD tile in place of BUFFER. | yes |
+| `screens/archive` | **New:** storage card, filter, day groups, rows with replay and keep, and a replay bar (`REPLAY · NOT SYNCED`) | yes, once the archive exists |
+| `screens/settings` | New ARCHIVE section (Keep mode, size limit, storage bar, Open archive) and DELIVERY section (download ahead on mobile data, share with nearby phones, sharing allowance). The board is now 1280 px tall; the screen scrolls. | yes |
+| `ui-spec.md` | New: Archive (rules and elements). Changed: Now playing (Header, Now playing, Brocast clock, Seconds sweep, Sub-second dial, Tiles); Settings (Archive, Delivery). | — |
+
+## Open questions for the user
+
+- **Sharing with nearby phones:** should it be on by default (the swarm needs seeders), or should listeners opt in?
+- **Kept files and the limit:** this design keeps kept files outside the limit, so the rolling archive always has its full space. The alternative is to count kept files inside the limit, never removing them, which shrinks the rolling space.
